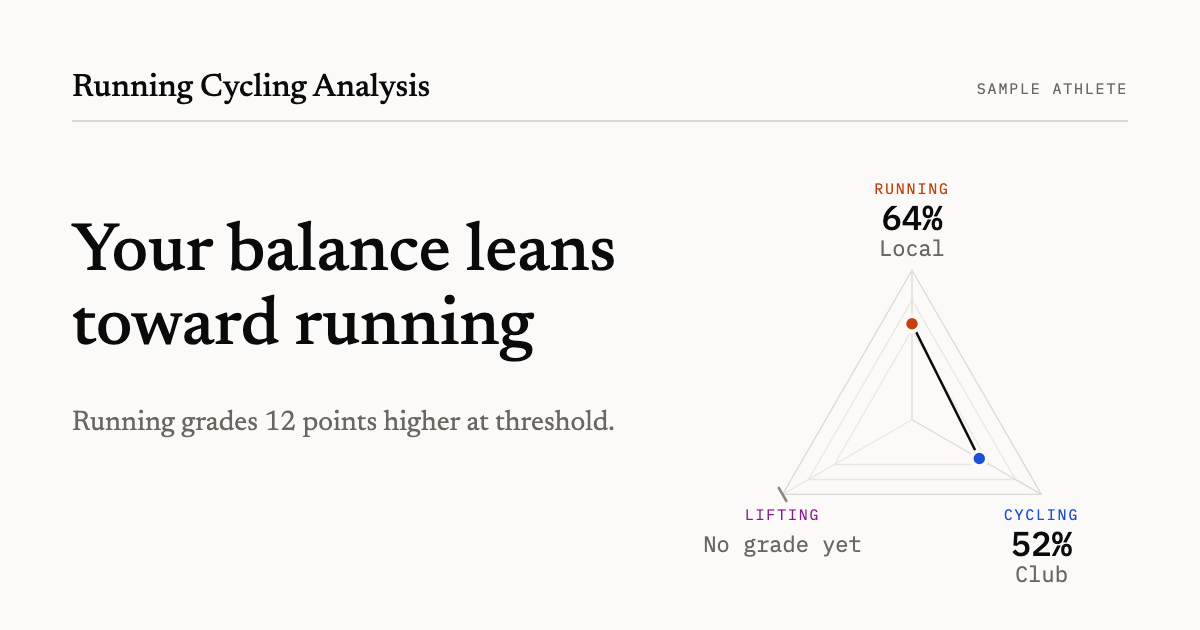
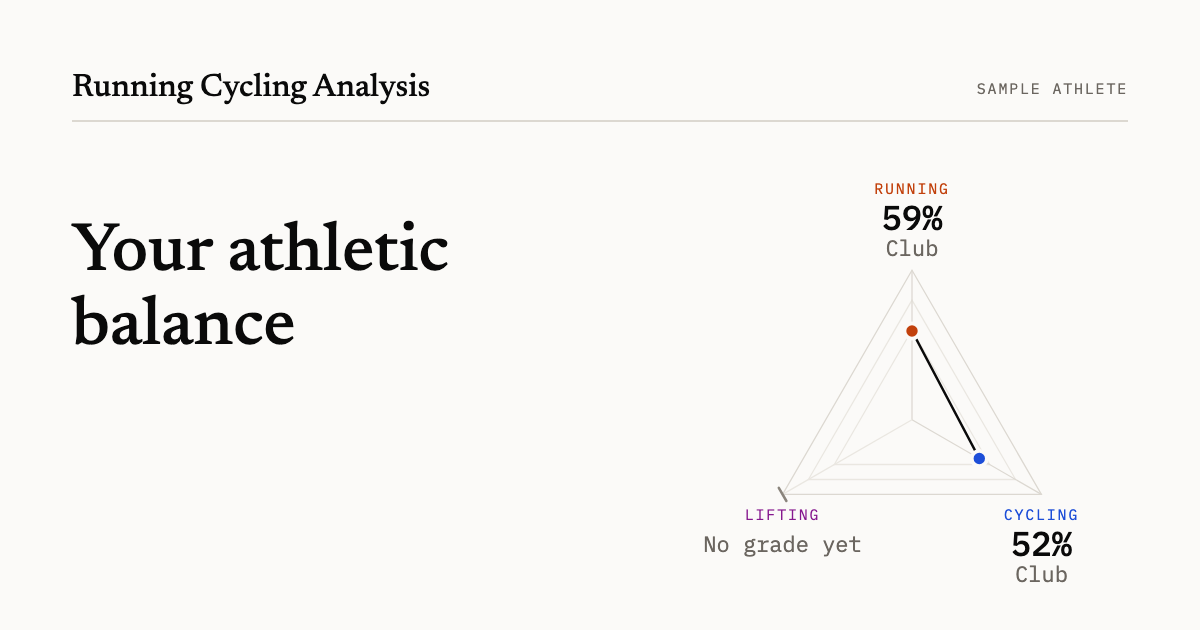
Landing figures and the sample tests grade the run by its half; social card redrawn; Balance specs drop the fitness card

diff --git a/apps/web/e2e/analysis.spec.ts b/apps/web/e2e/analysis.spec.ts
@@ -225,15 +225,9 @@ const CORNER_PARTS = [
   '.level-triangle__none',
 ]
 
-/** The run's fitness row: its title (the sport and its state), its one line, and the Details that hold the rest. */
-const FITNESS_CARD = '.fitness-card[data-sport="run"]'
-const FITNESS_STATE = `${FITNESS_CARD} .fitness-card__state`
-const FITNESS_LINE = `${FITNESS_CARD} .fitness-card__line`
-const FITNESS_DETAILS = `${FITNESS_CARD} details.fitness-card__evidence`
-
 // The balance leads the home page: at 1440 by 900 its headline, triangle and corners are on the first screen, and the
-// fitness card sits under the tiles, whole, with its track beside the words.
-test('at 1440 by 900 the balance leads the first screen, and the fitness card sits under its tiles', async ({
+// levels follow the tiles.
+test('at 1440 by 900 the balance leads the first screen, and the levels follow its tiles', async ({
   page,
 }) => {
   await page.setViewportSize({ width: 1440, height: 900 })
@@ -243,25 +237,11 @@ test('at 1440 by 900 the balance leads the first screen, and the fitness card si
   const corners = await edgesOf(page.locator(CORNERS).last())
   expect(headline.bottom).toBeLessThan(plot.top)
   expect(corners.bottom).toBeLessThanOrEqual(900)
-  // The card comes after the tiles and before the levels.
+  // The levels follow the tiles; fitness is on the Run and Ride pages, not here.
   const tiles = await edgesOf(page.locator('.balance-tiles'))
-  const card = await edgesOf(page.locator(FITNESS_CARD))
   const levels = await edgesOf(page.getByRole('region', { name: 'Levels' }))
-  expect(card.top).toBeGreaterThanOrEqual(tiles.bottom)
-  expect(card.bottom).toBeLessThanOrEqual(levels.top)
-  await page.locator(FITNESS_CARD).scrollIntoViewIfNeeded()
-  await expect(page.locator(FITNESS_STATE)).toHaveText('Run')
-  // One line under the title, the level with no range and no change; the runs behind it are behind the row's Details,
-  // inside the row, under its line.
-  await expect(page.locator(FITNESS_LINE)).toHaveText(/^\S.* at \d+ bpm\.$/)
-  await expect(page.locator(FITNESS_LINE)).not.toHaveText(/\(\S+ to \S+\)/)
-  await page.locator(`${FITNESS_DETAILS} > summary`).click()
-  // Balance's Details hold the rows alone: the graph is the Run and Ride pages'.
-  await expect(page.locator(`${FITNESS_CARD} .chart-frame`)).toHaveCount(0)
-  const lineEdges = await edgesOf(page.locator(FITNESS_LINE))
-  const rowsEdges = await edgesOf(page.locator(`${FITNESS_CARD} .props`).first())
-  expect(rowsEdges.top).toBeGreaterThanOrEqual(lineEdges.bottom)
-  expect(rowsEdges.bottom).toBeLessThanOrEqual((await edgesOf(page.locator(FITNESS_CARD))).bottom)
+  expect(levels.top).toBeGreaterThanOrEqual(tiles.bottom)
+  await expect(page.locator('.fitness-card')).toHaveCount(0)
   // The triangle is the first drawing on the page.
   const first = await page.evaluate(
     () => document.querySelector('main svg:not(.icon)')?.getAttribute('class') ?? '',
@@ -275,12 +255,12 @@ test('at 1440 by 900 the balance leads the first screen, and the fitness card si
 })
 
 // A phone opens on the balance, the sample notice and all: at 390 by 844 and at 320 by 640 the headline and the
-// triangle end on the first screen, under the header and the rail, and the fitness row follows the tiles.
+// triangle end on the first screen, under the header and the rail, and the levels follow the tiles.
 for (const [width, height] of [
   [390, 844],
   [320, 640],
 ] as const) {
-  test(`at ${width} by ${height} the balance headline and triangle are on the first screen, and the fitness row follows the tiles`, async ({
+  test(`at ${width} by ${height} the balance headline and triangle are on the first screen, and the levels follow the tiles`, async ({
     page,
   }) => {
     await page.setViewportSize({ width, height })
@@ -304,24 +284,12 @@ for (const [width, height] of [
     expect(ride.y).toBeGreaterThan(run.y + run.height)
     expect(lift.y).toBeGreaterThan(run.y + run.height)
     expect(lift.x + lift.width).toBeLessThanOrEqual(ride.x + 1)
-    // The row is under the tiles, and its title, its line and, once opened, its rows follow one another.
-    await page.locator(`${FITNESS_DETAILS} > summary`).click()
+    // The levels follow the tiles.
     const tiles = await edgesOf(page.locator('.balance-tiles'))
-    const card = await edgesOf(page.locator(FITNESS_CARD))
-    const state = await edgesOf(page.locator(FITNESS_STATE))
-    const sentence = await edgesOf(page.locator(FITNESS_LINE))
-    const rows = await edgesOf(page.locator(`${FITNESS_CARD} .props`).first())
-    expect(card.top).toBeGreaterThanOrEqual(tiles.bottom)
-    expect(sentence.top).toBeGreaterThanOrEqual(state.bottom)
-    expect(rows.top).toBeGreaterThanOrEqual(sentence.bottom)
-    expect(rows.bottom).toBeLessThanOrEqual(card.bottom)
+    const levels = await edgesOf(page.getByRole('region', { name: 'Levels' }))
+    expect(levels.top).toBeGreaterThanOrEqual(tiles.bottom)
     // Nothing collides, and the page does not scroll sideways.
-    for (const selector of [
-      FITNESS_CARD,
-      FITNESS_LINE,
-      `${FITNESS_CARD} .props`,
-      ...CORNER_PARTS,
-    ]) {
+    for (const selector of ['.balance-tiles', ...CORNER_PARTS]) {
       const box = await page.locator(selector).first().boundingBox()
       expect(box === null ? -1 : box.x).toBeGreaterThanOrEqual(0)
       expect(box === null ? width + 1 : box.x + box.width).toBeLessThanOrEqual(width)

diff --git a/apps/web/scripts/landingFigures.ts b/apps/web/scripts/landingFigures.ts
@@ -1,5 +1,6 @@
 import { AnalysisSession } from '@rca/core/session'
 import { gapOfHeadline } from '../src/ui/balanceGap.ts'
+import { halfOfState } from '../src/ui/runHalf.ts'
 import { thresholdGrades } from '../src/ui/thresholdGrade.ts'
 import type { LandingFigures } from '../src/ui/landingFigures.ts'
 import { SAMPLE_PROFILE, SAMPLE_SETTINGS } from '../src/ui/sampleAthlete.ts'
@@ -22,13 +23,15 @@ export const LANDING_MIN_LEAD_POINTS = 5
  * least LANDING_MIN_LEAD_POINTS), so the page never describes a sample that has moved.
  */
 export function computeLandingFigures(): LandingFigures {
-  const { result } = new AnalysisSession().loadSample(SAMPLE_SETTINGS)
+  const state = new AnalysisSession().loadSample(SAMPLE_SETTINGS)
+  const { result } = state
   if (result === null)
     throw new Error(`The sample has no result, so the landing page has no figures: ${FIX}.`)
-  const headline = thresholdGrades(result, SAMPLE_PROFILE)
+  // The run is graded by its forecast half, asked as the sample's Balance asks it.
+  const headline = thresholdGrades(result, SAMPLE_PROFILE, halfOfState(state)(result))
   const gap = gapOfHeadline(headline)
   if (headline.run.kind !== 'graded' || headline.ride.kind !== 'graded' || gap === null) {
-    throw new Error(`The sample no longer grades both sports at their thresholds: ${FIX}.`)
+    throw new Error(`The sample no longer grades both sports: ${FIX}.`)
   }
   // The example states a lean, and Balance decides a lean by the centre alone, so that is what the example needs to keep.
   if (gap.lean === 'even' || Math.abs(gap.centre) < LANDING_MIN_LEAD_POINTS) {

diff --git a/apps/web/src/ui/sampleSections.test.ts b/apps/web/src/ui/sampleSections.test.ts
@@ -6,6 +6,7 @@ import { SAMPLE_REFERENCE_NOW_MS } from '@rca/core/synthetic'
 import { LANDING_MIN_LEAD_POINTS } from '../../scripts/landingFigures'
 import { gapOfHeadline } from './balanceGap'
 import { thresholdGrades } from './thresholdGrade'
+import { halfOfState } from './runHalf'
 import { LANDING_EXAMPLE } from './landingExample'
 import { headlineEffort, sportRecords } from './records'
 import { sampleProfileAt } from './sampleAthlete'
@@ -75,7 +76,8 @@ describe('the sample gives one result on every day of a week, and in every week'
     const state = new AnalysisSession().loadSample(SETTINGS, clock)
     const result = state.result!
     const newest = state.library[0]!.startMs
-    const grades = thresholdGrades(result, sampleProfileAt(newest))
+    // The run is graded by its forecast half, asked as the sample's Balance asks it.
+    const grades = thresholdGrades(result, sampleProfileAt(newest), halfOfState(state)(result))
     const run = state.fitness.run
     return {
       newestYear: new Date(newest).getUTCFullYear(),
